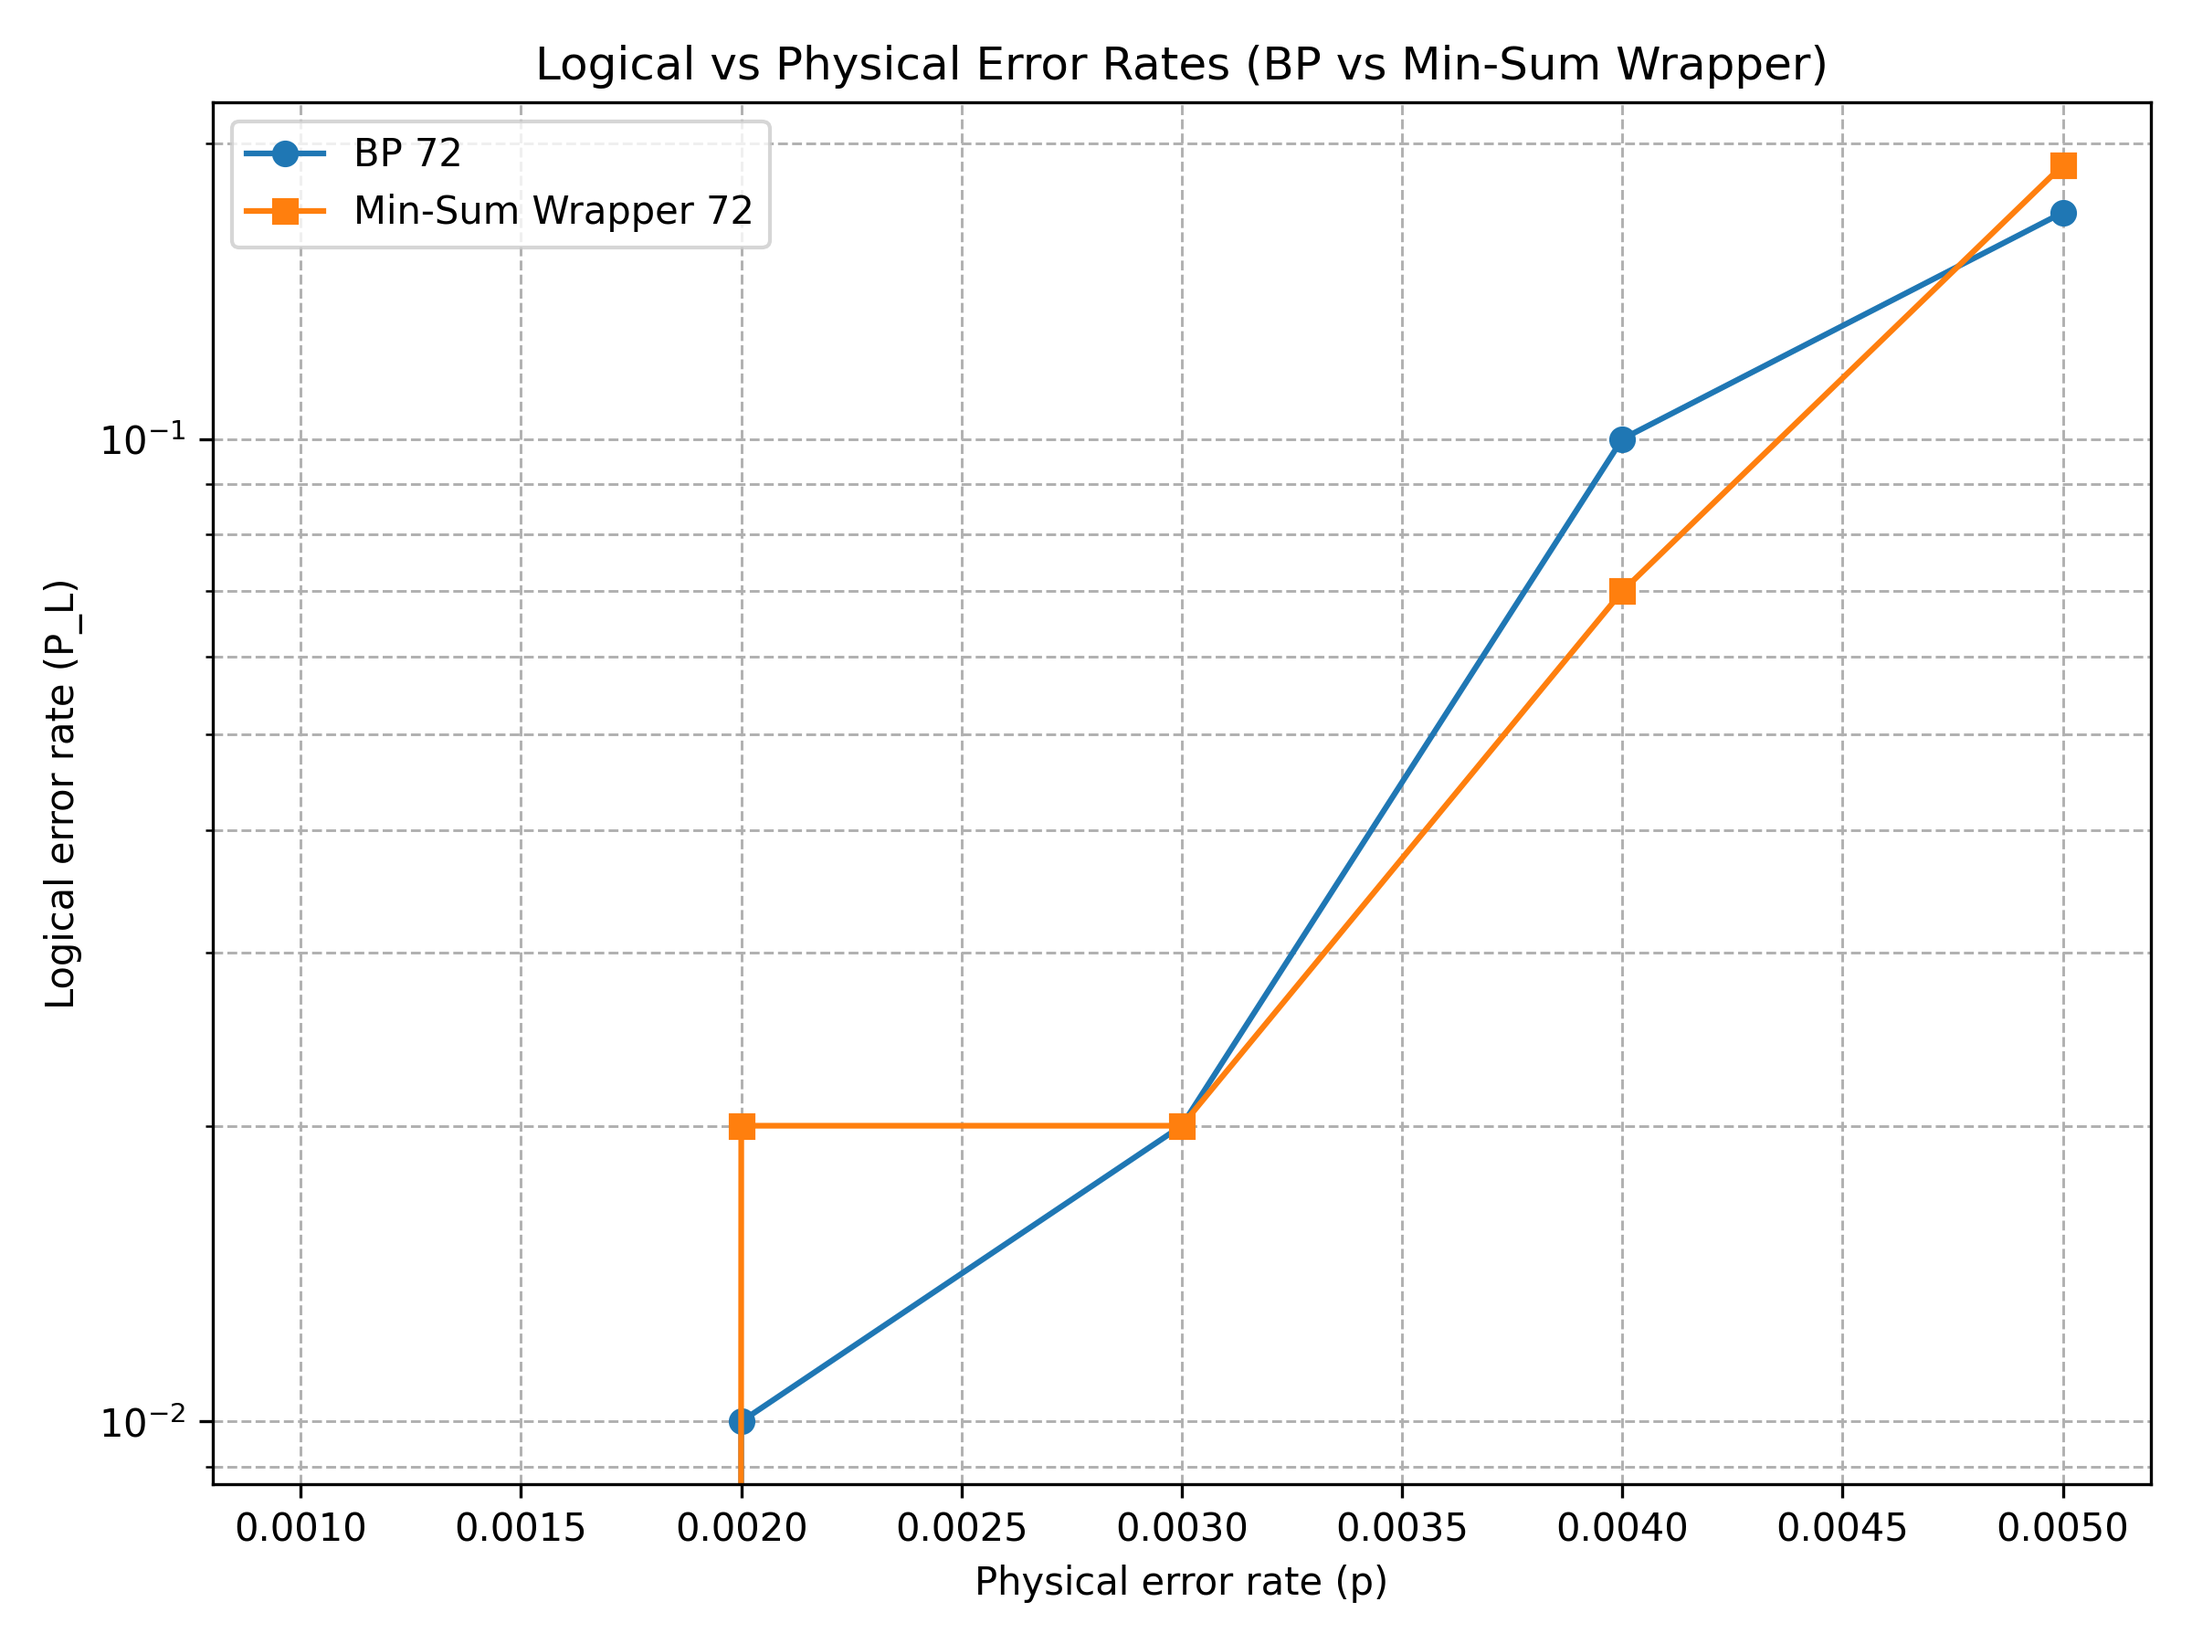
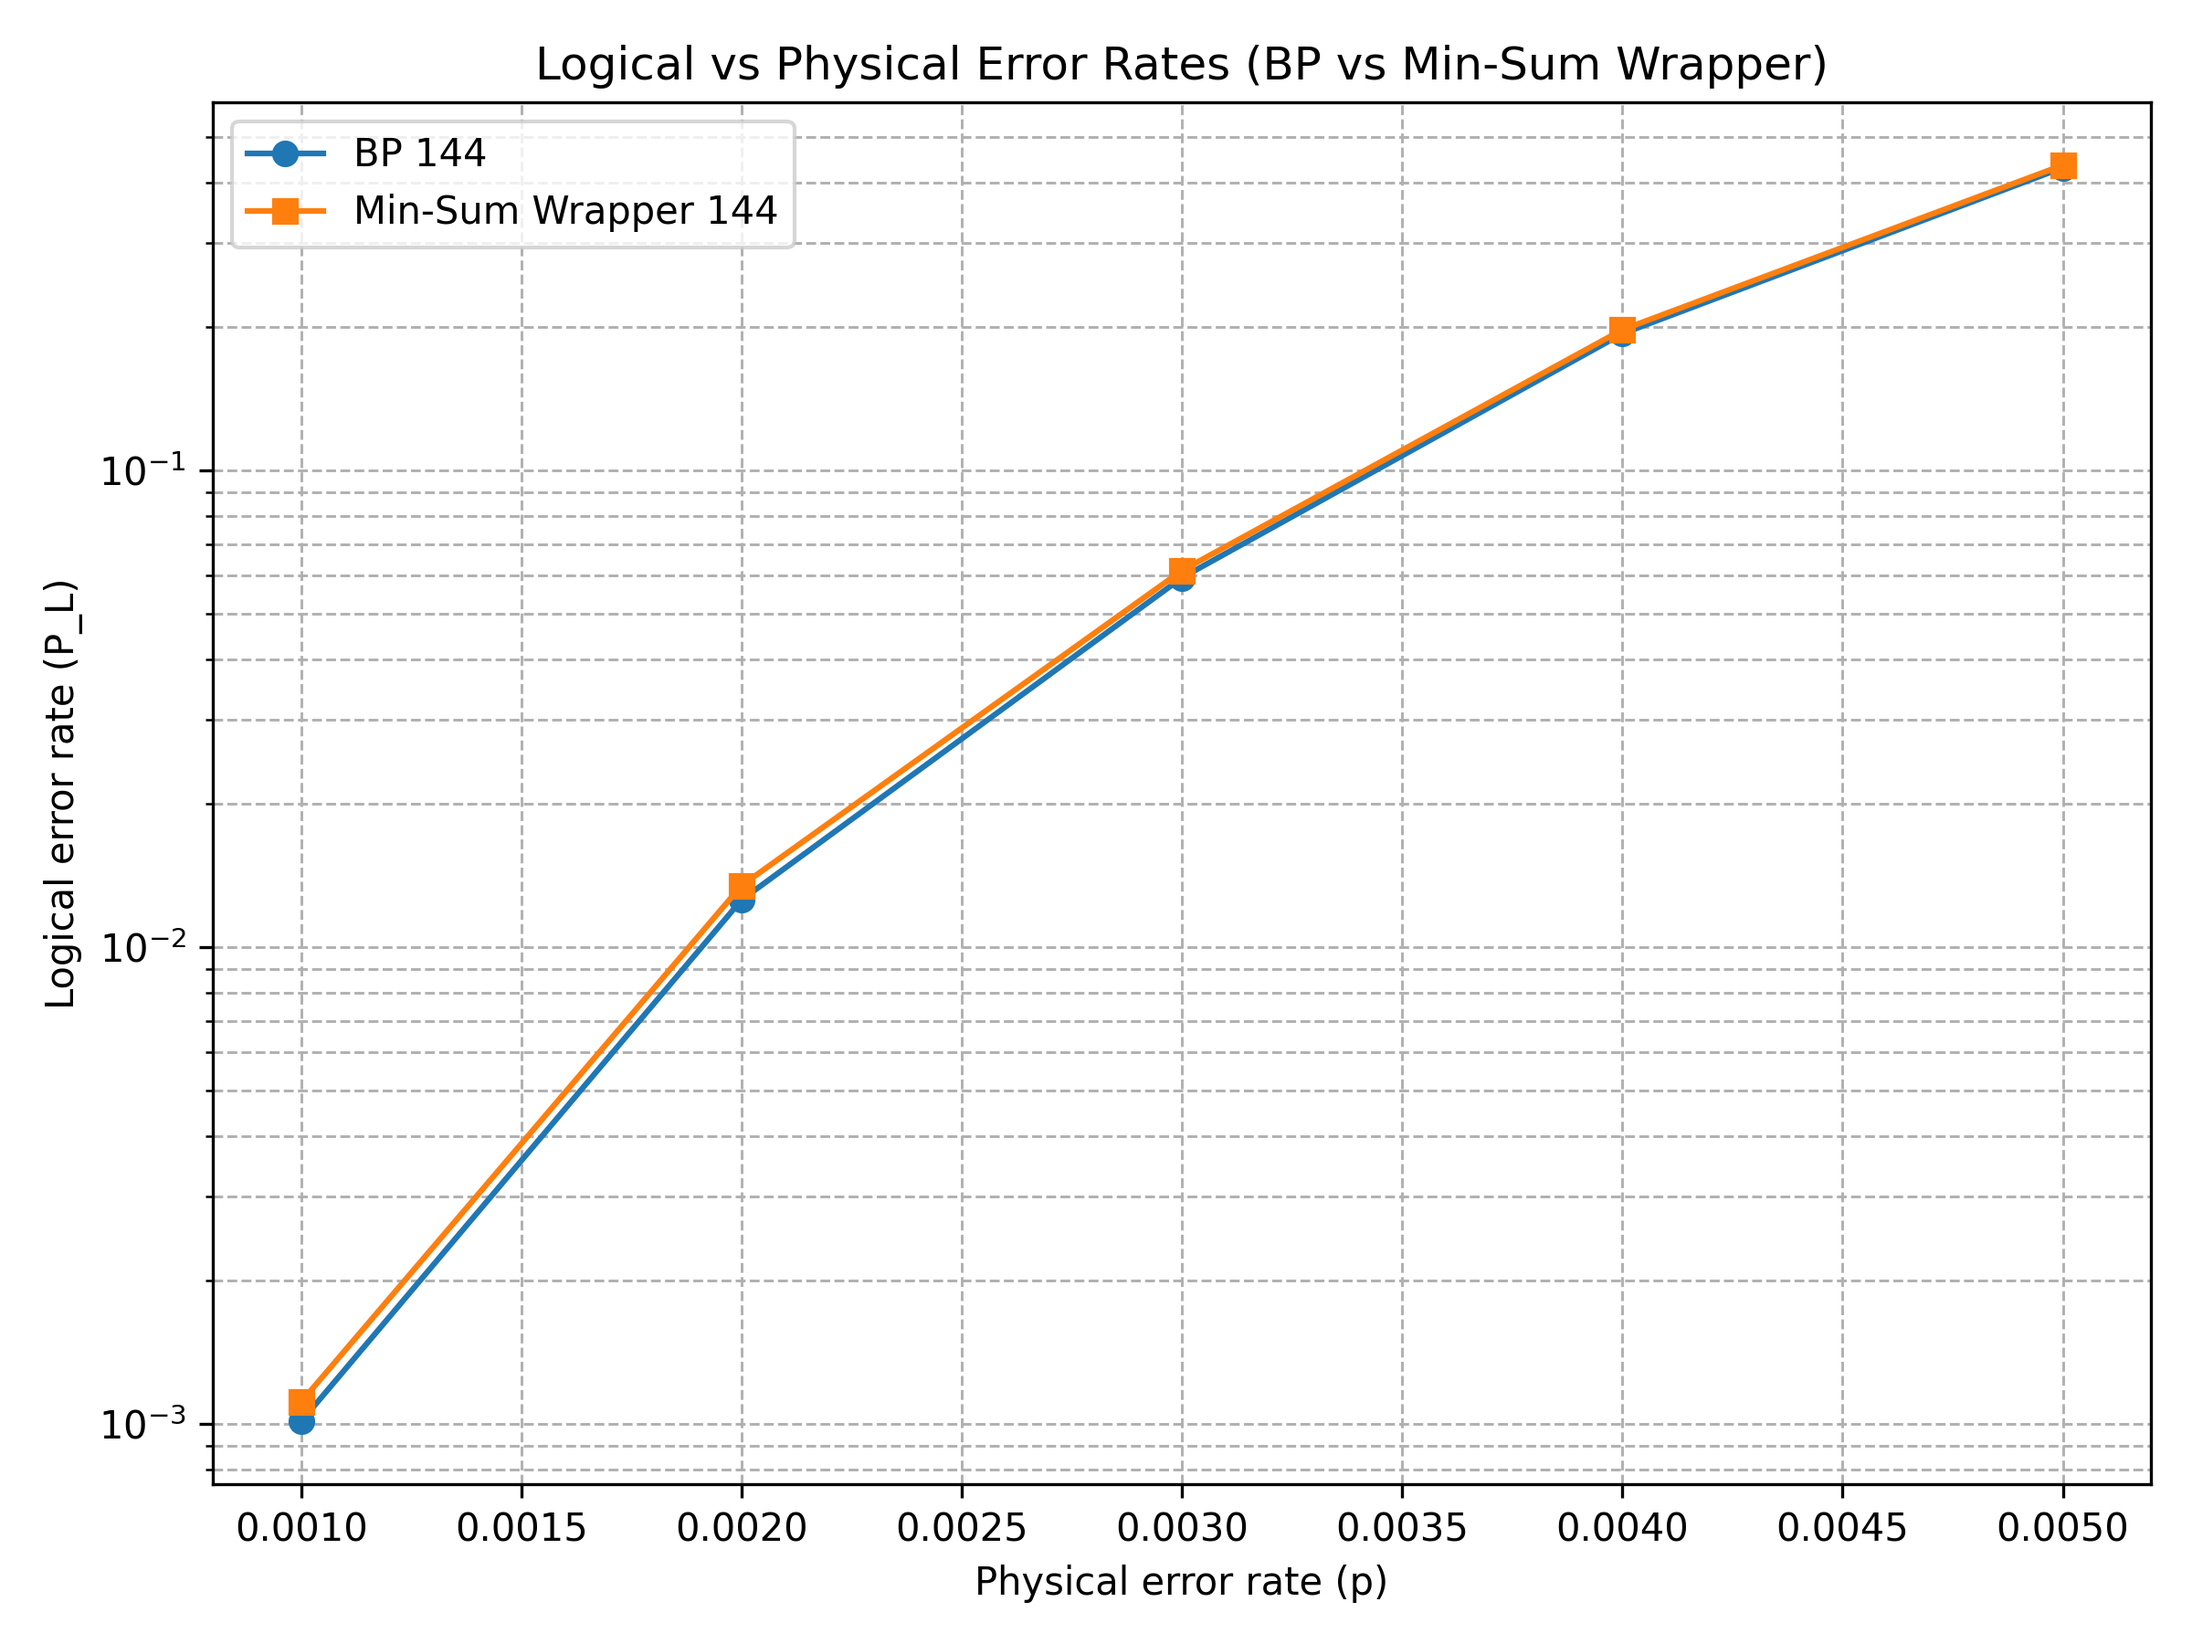
output from csc implementation and time measure

diff --git a/test_csc.py b/test_csc.py
@@ -26,7 +26,7 @@ if __name__ == "__main__":
     show_prints = False
     
     # List of codes to test in this example is the [[72, 12 ,6]] from https://www.nature.com/articles/s41586-024-07107-7
-    codesConfig = ["72"]
+    codesConfig = ["144"]
     
     # Number of Monte Carlo trials for physical error rates
     exp = 5
@@ -116,7 +116,7 @@ if __name__ == "__main__":
         pcm = sparse.csc_matrix(code.hx, dtype=np.uint8)    
                 
         # Code distance
-        d = 6
+        d = 12
         num_iterations = 100
      
 
@@ -226,7 +226,7 @@ if __name__ == "__main__":
                 a = time.time()
                 #predicted_errors_osd = _bposd.decode(detectors[0])
                 L_array = compute_min_sum_wrapper(sm, detectors[0].astype(np.int32), pcm.shape[0], pcm.shape[1],
-                                                    Lj.astype(np.double), alpha, num_iterations, error_computed)
+                                                    Lj.astype(np.double), alpha, num_iterations + 1, error_computed)
                 
                
                 

diff --git a/include/min_sum.h b/include/min_sum.h
@@ -1,10 +1,10 @@
 #pragma once
 
 #ifndef VNODES
-#define VNODES 2232
+#define VNODES 8784
 #endif
 #ifndef CHECK 
-#define CHECK 252
+#define CHECK 936
 #endif
 
 #ifndef COLORS_H

diff --git a/include/min_sum_csc.h b/include/min_sum_csc.h
@@ -1,10 +1,10 @@
 #pragma once
 
 #ifndef VNODES
-#define VNODES 2232
+#define VNODES 8784
 #endif
 #ifndef CHECK 
-#define CHECK 252
+#define CHECK 936
 #endif
 
 #ifndef COLORS_H
